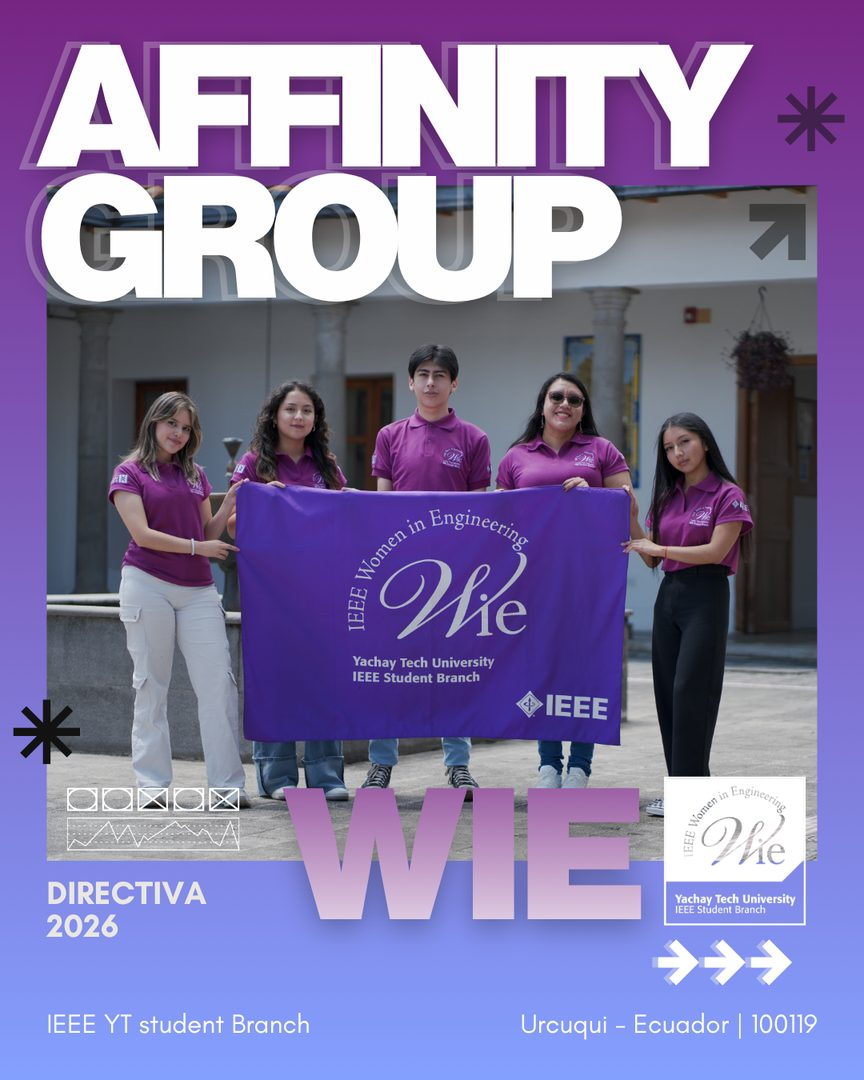
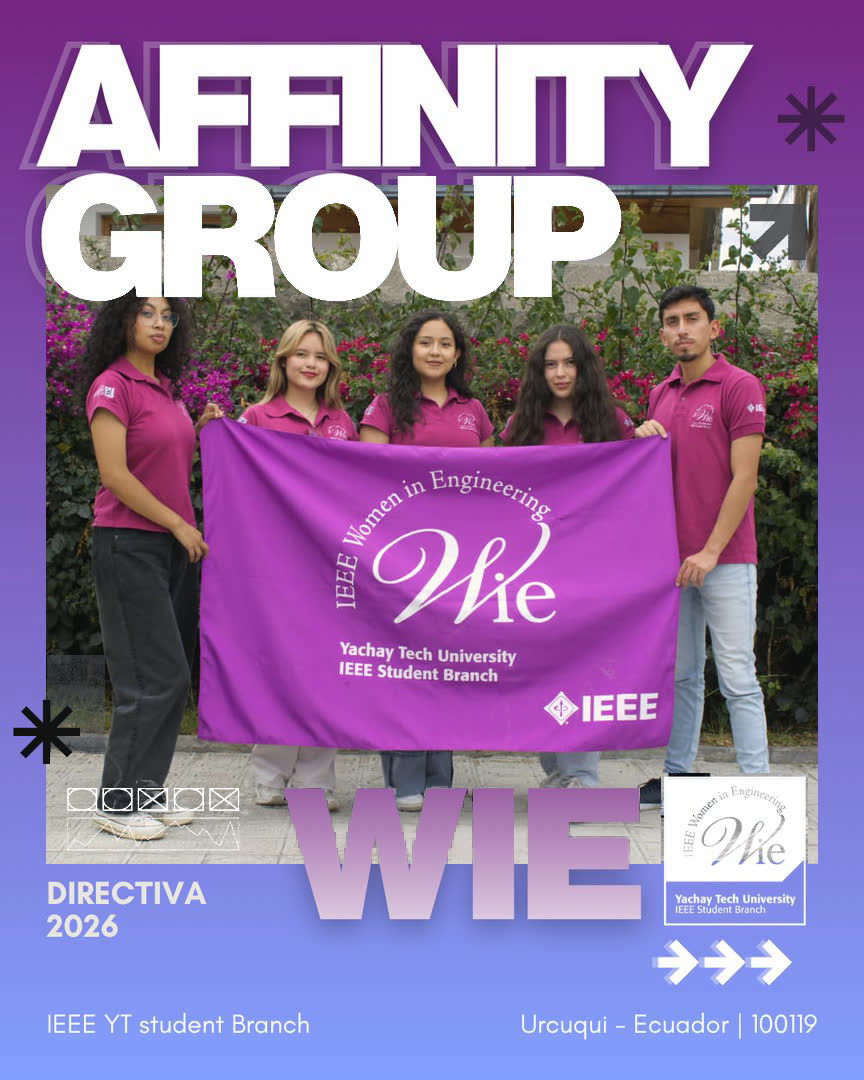
El Archivo seguia con la directiva anterior de WIE
En adbe8c9 escribi que la portada del Archivo NO se tocaba: las quince piezas
del mosaico son carteles disenados de 864x1080 y lo unico que mando WIE es una
grupal en crudo, apaisada, de 1040x795. Recortada a 4:5 se queda con 636 de
los 1040 pixeles: parte por la mitad a la de la izquierda y corta al de la
derecha. Andres pidio igualmente que se cambiara, y tenia razon: el Archivo
estaba enseñando a gente que ya no es la directiva.

La salida no era recortar la foto sino entrar en el cartel. Dentro del diseno
la foto ocupa un rectangulo exacto -(46,185), 772x679, proporcion 1.137- y la
grupal nueva, a 1.308, entra ahi recortando ancho, no alto: 904 de 1040, con
la gente entre el 12 % y el 88 %. Nadie se queda fuera. El cartel es el mismo
de siempre; lo unico que cambia son los pixeles de dentro del marco.

Lo caro fue devolver lo que el diseno dibuja ENCIMA de la foto. Seis piezas, y
cada una pedia un metodo distinto:

- GROUP. Blanco macizo. La banda es 66 % blanco puro y solo 0.8 % cae entre
  208 y 239, asi que un umbral la separa limpia. El primer intento uso fondo
  local y salio la palabra HUECA: dentro de un trazo grueso la ventana entera
  es blanca, asi que el fondo estimado tambien, y el alfa se anulaba.

- El ornamento -las cajas y la onda-. Justo lo contrario: trazos de un pixel
  que un umbral se come. Aqui si sirve el fondo local, el percentil 15 de una
  ventana de 13x13, y de ahi sale el alfa. El marco de la onda solo aparece
  con este metodo.
[…]

diff --git a/capitulos/computer-society.html b/capitulos/computer-society.html
@@ -22,13 +22,13 @@
 <meta property="og:image" content="../assets/img/rama-general-2026.jpg">
 <meta property="og:locale" content="es_EC">
 <meta property="og:site_name" content="IEEE Yachay Tech University Student Branch">
-<link rel="stylesheet" href="../css/style.css?v=124">
+<link rel="stylesheet" href="../css/style.css?v=125">
 
 <!-- Estos dos van en la cabecera a propósito, y bloquean el pintado a
      propósito: el velo tiene que estar puesto en el primer fotograma o se
      ve la página por debajo. Ver js/velo-entrada.js. -->
-<script src="../js/capitulos-data.js?v=124"></script>
-<script src="../js/velo-entrada.js?v=124"></script>
+<script src="../js/capitulos-data.js?v=125"></script>
+<script src="../js/velo-entrada.js?v=125"></script>
 </head>
 
 <body class="cappage" data-cap="computer-society">
@@ -110,9 +110,9 @@
 <!-- orden: primero los datos, luego el renderizador que construye la página,
      y al final los del sitio — main.js necesita el DOM ya montado para medir
      la barra, y sus render* de la portada no hacen nada aquí. -->
-<script src="../js/capitulo.js?v=124"></script>
-<script src="../js/ascii.js?v=124"></script>
-<script src="../js/main.js?v=124"></script>
-<script src="../js/transicion.js?v=124"></script>
+<script src="../js/capitulo.js?v=125"></script>
+<script src="../js/ascii.js?v=125"></script>
+<script src="../js/main.js?v=125"></script>
+<script src="../js/transicion.js?v=125"></script>
 </body>
 </html>

diff --git a/capitulos/photonics.html b/capitulos/photonics.html
@@ -22,13 +22,13 @@
 <meta property="og:image" content="../assets/img/rama-general-2026.jpg">
 <meta property="og:locale" content="es_EC">
 <meta property="og:site_name" content="IEEE Yachay Tech University Student Branch">
-<link rel="stylesheet" href="../css/style.css?v=124">
+<link rel="stylesheet" href="../css/style.css?v=125">
 
 <!-- Estos dos van en la cabecera a propósito, y bloquean el pintado a
      propósito: el velo tiene que estar puesto en el primer fotograma o se
      ve la página por debajo. Ver js/velo-entrada.js. -->
-<script src="../js/capitulos-data.js?v=124"></script>
-<script src="../js/velo-entrada.js?v=124"></script>
+<script src="../js/capitulos-data.js?v=125"></script>
+<script src="../js/velo-entrada.js?v=125"></script>
 </head>
 
 <body class="cappage" data-cap="photonics">
@@ -110,9 +110,9 @@
 <!-- orden: primero los datos, luego el renderizador que construye la página,
      y al final los del sitio — main.js necesita el DOM ya montado para medir
      la barra, y sus render* de la portada no hacen nada aquí. -->
-<script src="../js/capitulo.js?v=124"></script>
-<script src="../js/ascii.js?v=124"></script>
-<script src="../js/main.js?v=124"></script>
-<script src="../js/transicion.js?v=124"></script>
+<script src="../js/capitulo.js?v=125"></script>
+<script src="../js/ascii.js?v=125"></script>
+<script src="../js/main.js?v=125"></script>
+<script src="../js/transicion.js?v=125"></script>
 </body>
 </html>

diff --git a/capitulos/comsoc.html b/capitulos/comsoc.html
@@ -22,13 +22,13 @@
 <meta property="og:image" content="../assets/img/rama-general-2026.jpg">
 <meta property="og:locale" content="es_EC">
 <meta property="og:site_name" content="IEEE Yachay Tech University Student Branch">
-<link rel="stylesheet" href="../css/style.css?v=124">
+<link rel="stylesheet" href="../css/style.css?v=125">
 
 <!-- Estos dos van en la cabecera a propósito, y bloquean el pintado a
      propósito: el velo tiene que estar puesto en el primer fotograma o se
      ve la página por debajo. Ver js/velo-entrada.js. -->
-<script src="../js/capitulos-data.js?v=124"></script>
-<script src="../js/velo-entrada.js?v=124"></script>
+<script src="../js/capitulos-data.js?v=125"></script>
+<script src="../js/velo-entrada.js?v=125"></script>
 </head>
 
 <body class="cappage" data-cap="comsoc">
@@ -110,9 +110,9 @@
 <!-- orden: primero los datos, luego el renderizador que construye la página,
      y al final los del sitio — main.js necesita el DOM ya montado para medir
      la barra, y sus render* de la portada no hacen nada aquí. -->
-<script src="../js/capitulo.js?v=124"></script>
-<script src="../js/ascii.js?v=124"></script>
-<script src="../js/main.js?v=124"></script>
-<script src="../js/transicion.js?v=124"></script>
+<script src="../js/capitulo.js?v=125"></script>
+<script src="../js/ascii.js?v=125"></script>
+<script src="../js/main.js?v=125"></script>
+<script src="../js/transicion.js?v=125"></script>
 </body>
 </html>

diff --git a/capitulos/sight.html b/capitulos/sight.html
@@ -22,13 +22,13 @@
 <meta property="og:image" content="../assets/img/rama-general-2026.jpg">
 <meta property="og:locale" content="es_EC">
 <meta property="og:site_name" content="IEEE Yachay Tech University Student Branch">
-<link rel="stylesheet" href="../css/style.css?v=124">
+<link rel="stylesheet" href="../css/style.css?v=125">
 
 <!-- Estos dos van en la cabecera a propósito, y bloquean el pintado a
      propósito: el velo tiene que estar puesto en el primer fotograma o se
      ve la página por debajo. Ver js/velo-entrada.js. -->
-<script src="../js/capitulos-data.js?v=124"></script>
-<script src="../js/velo-entrada.js?v=124"></script>
+<script src="../js/capitulos-data.js?v=125"></script>
+<script src="../js/velo-entrada.js?v=125"></script>
 </head>
 
 <body class="cappage" data-cap="sight">
@@ -110,9 +110,9 @@
 <!-- orden: primero los datos, luego el renderizador que construye la página,
      y al final los del sitio — main.js necesita el DOM ya montado para medir
      la barra, y sus render* de la portada no hacen nada aquí. -->
-<script src="../js/capitulo.js?v=124"></script>
-<script src="../js/ascii.js?v=124"></script>
-<script src="../js/main.js?v=124"></script>
-<script src="../js/transicion.js?v=124"></script>
+<script src="../js/capitulo.js?v=125"></script>
+<script src="../js/ascii.js?v=125"></script>
+<script src="../js/main.js?v=125"></script>
+<script src="../js/transicion.js?v=125"></script>
 </body>
 </html>

diff --git a/capitulos/embs.html b/capitulos/embs.html
@@ -22,13 +22,13 @@
 <meta property="og:image" content="../assets/img/rama-general-2026.jpg">
 <meta property="og:locale" content="es_EC">
 <meta property="og:site_name" content="IEEE Yachay Tech University Student Branch">
-<link rel="stylesheet" href="../css/style.css?v=124">
+<link rel="stylesheet" href="../css/style.css?v=125">
 
 <!-- Estos dos van en la cabecera a propósito, y bloquean el pintado a
      propósito: el velo tiene que estar puesto en el primer fotograma o se
      ve la página por debajo. Ver js/velo-entrada.js. -->
-<script src="../js/capitulos-data.js?v=124"></script>
-<script src="../js/velo-entrada.js?v=124"></script>
+<script src="../js/capitulos-data.js?v=125"></script>
+<script src="../js/velo-entrada.js?v=125"></script>
 </head>
 
 <body class="cappage" data-cap="embs">
@@ -110,9 +110,9 @@
 <!-- orden: primero los datos, luego el renderizador que construye la página,
      y al final los del sitio — main.js necesita el DOM ya montado para medir
      la barra, y sus render* de la portada no hacen nada aquí. -->
-<script src="../js/capitulo.js?v=124"></script>
-<script src="../js/ascii.js?v=124"></script>
-<script src="../js/main.js?v=124"></script>
-<script src="../js/transicion.js?v=124"></script>
+<script src="../js/capitulo.js?v=125"></script>
+<script src="../js/ascii.js?v=125"></script>
+<script src="../js/main.js?v=125"></script>
+<script src="../js/transicion.js?v=125"></script>
 </body>
 </html>

diff --git a/capitulos/grss.html b/capitulos/grss.html
@@ -22,13 +22,13 @@
 <meta property="og:image" content="../assets/img/rama-general-2026.jpg">
 <meta property="og:locale" content="es_EC">
 <meta property="og:site_name" content="IEEE Yachay Tech University Student Branch">
-<link rel="stylesheet" href="../css/style.css?v=124">
+<link rel="stylesheet" href="../css/style.css?v=125">
 
 <!-- Estos dos van en la cabecera a propósito, y bloquean el pintado a
      propósito: el velo tiene que estar puesto en el primer fotograma o se
      ve la página por debajo. Ver js/velo-entrada.js. -->
-<script src="../js/capitulos-data.js?v=124"></script>
-<script src="../js/velo-entrada.js?v=124"></script>
+<script src="../js/capitulos-data.js?v=125"></script>
+<script src="../js/velo-entrada.js?v=125"></script>
 </head>
 
 <body class="cappage" data-cap="grss">
@@ -110,9 +110,9 @@
 <!-- orden: primero los datos, luego el renderizador que construye la página,
      y al final los del sitio — main.js necesita el DOM ya montado para medir
      la barra, y sus render* de la portada no hacen nada aquí. -->
-<script src="../js/capitulo.js?v=124"></script>
-<script src="../js/ascii.js?v=124"></script>
-<script src="../js/main.js?v=124"></script>
-<script src="../js/transicion.js?v=124"></script>
+<script src="../js/capitulo.js?v=125"></script>
+<script src="../js/ascii.js?v=125"></script>
+<script src="../js/main.js?v=125"></script>
+<script src="../js/transicion.js?v=125"></script>
 </body>
 </html>

diff --git a/capitulos/mtts.html b/capitulos/mtts.html
@@ -22,13 +22,13 @@
 <meta property="og:image" content="../assets/img/rama-general-2026.jpg">
 <meta property="og:locale" content="es_EC">
 <meta property="og:site_name" content="IEEE Yachay Tech University Student Branch">
-<link rel="stylesheet" href="../css/style.css?v=124">
+<link rel="stylesheet" href="../css/style.css?v=125">
 
 <!-- Estos dos van en la cabecera a propósito, y bloquean el pintado a
      propósito: el velo tiene que estar puesto en el primer fotograma o se
      ve la página por debajo. Ver js/velo-entrada.js. -->
-<script src="../js/capitulos-data.js?v=124"></script>
-<script src="../js/velo-entrada.js?v=124"></script>
+<script src="../js/capitulos-data.js?v=125"></script>
+<script src="../js/velo-entrada.js?v=125"></script>
 </head>
 
 <body class="cappage" data-cap="mtts">
@@ -110,9 +110,9 @@
 <!-- orden: primero los datos, luego el renderizador que construye la página,
      y al final los del sitio — main.js necesita el DOM ya montado para medir
      la barra, y sus render* de la portada no hacen nada aquí. -->
-<script src="../js/capitulo.js?v=124"></script>
-<script src="../js/ascii.js?v=124"></script>
-<script src="../js/main.js?v=124"></script>
-<script src="../js/transicion.js?v=124"></script>
+<script src="../js/capitulo.js?v=125"></script>
+<script src="../js/ascii.js?v=125"></script>
+<script src="../js/main.js?v=125"></script>
+<script src="../js/transicion.js?v=125"></script>
 </body>
 </html>

diff --git a/capitulos/npss.html b/capitulos/npss.html
@@ -22,13 +22,13 @@
 <meta property="og:image" content="../assets/img/rama-general-2026.jpg">
 <meta property="og:locale" content="es_EC">
 <meta property="og:site_name" content="IEEE Yachay Tech University Student Branch">
-<link rel="stylesheet" href="../css/style.css?v=124">
+<link rel="stylesheet" href="../css/style.css?v=125">
 
 <!-- Estos dos van en la cabecera a propósito, y bloquean el pintado a
      propósito: el velo tiene que estar puesto en el primer fotograma o se
      ve la página por debajo. Ver js/velo-entrada.js. -->
-<script src="../js/capitulos-data.js?v=124"></script>
-<script src="../js/velo-entrada.js?v=124"></script>
+<script src="../js/capitulos-data.js?v=125"></script>
+<script src="../js/velo-entrada.js?v=125"></script>
 </head>
 
 <body class="cappage" data-cap="npss">
@@ -110,9 +110,9 @@
 <!-- orden: primero los datos, luego el renderizador que construye la página,
      y al final los del sitio — main.js necesita el DOM ya montado para medir
      la barra, y sus render* de la portada no hacen nada aquí. -->
-<script src="../js/capitulo.js?v=124"></script>
-<script src="../js/ascii.js?v=124"></script>
-<script src="../js/main.js?v=124"></script>
-<script src="../js/transicion.js?v=124"></script>
+<script src="../js/capitulo.js?v=125"></script>
+<script src="../js/ascii.js?v=125"></script>
+<script src="../js/main.js?v=125"></script>
+<script src="../js/transicion.js?v=125"></script>
 </body>
 </html>

diff --git a/capitulos/cas.html b/capitulos/cas.html
@@ -22,13 +22,13 @@
 <meta property="og:image" content="../assets/img/rama-general-2026.jpg">
 <meta property="og:locale" content="es_EC">
 <meta property="og:site_name" content="IEEE Yachay Tech University Student Branch">
-<link rel="stylesheet" href="../css/style.css?v=124">
+<link rel="stylesheet" href="../css/style.css?v=125">
 
 <!-- Estos dos van en la cabecera a propósito, y bloquean el pintado a
      propósito: el velo tiene que estar puesto en el primer fotograma o se
      ve la página por debajo. Ver js/velo-entrada.js. -->
-<script src="../js/capitulos-data.js?v=124"></script>
-<script src="../js/velo-entrada.js?v=124"></script>
+<script src="../js/capitulos-data.js?v=125"></script>
+<script src="../js/velo-entrada.js?v=125"></script>
 </head>
 
 <body class="cappage" data-cap="cas">
@@ -110,9 +110,9 @@
 <!-- orden: primero los datos, luego el renderizador que construye la página,
      y al final los del sitio — main.js necesita el DOM ya montado para medir
      la barra, y sus render* de la portada no hacen nada aquí. -->
-<script src="../js/capitulo.js?v=124"></script>
-<script src="../js/ascii.js?v=124"></script>
-<script src="../js/main.js?v=124"></script>
-<script src="../js/transicion.js?v=124"></script>
+<script src="../js/capitulo.js?v=125"></script>
+<script src="../js/ascii.js?v=125"></script>
+<script src="../js/main.js?v=125"></script>
+<script src="../js/transicion.js?v=125"></script>
 </body>
 </html>

diff --git a/capitulos/cis.html b/capitulos/cis.html
@@ -22,13 +22,13 @@
 <meta property="og:image" content="../assets/img/rama-general-2026.jpg">
 <meta property="og:locale" content="es_EC">
 <meta property="og:site_name" content="IEEE Yachay Tech University Student Branch">
-<link rel="stylesheet" href="../css/style.css?v=124">
+<link rel="stylesheet" href="../css/style.css?v=125">
 
 <!-- Estos dos van en la cabecera a propósito, y bloquean el pintado a
      propósito: el velo tiene que estar puesto en el primer fotograma o se
      ve la página por debajo. Ver js/velo-entrada.js. -->
-<script src="../js/capitulos-data.js?v=124"></script>
-<script src="../js/velo-entrada.js?v=124"></script>
+<script src="../js/capitulos-data.js?v=125"></script>
+<script src="../js/velo-entrada.js?v=125"></script>
 </head>
 
 <body class="cappage" data-cap="cis">
@@ -110,9 +110,9 @@
 <!-- orden: primero los datos, luego el renderizador que construye la página,
      y al final los del sitio — main.js necesita el DOM ya montado para medir
      la barra, y sus render* de la portada no hacen nada aquí. -->
-<script src="../js/capitulo.js?v=124"></script>
-<script src="../js/ascii.js?v=124"></script>
-<script src="../js/main.js?v=124"></script>
-<script src="../js/transicion.js?v=124"></script>
+<script src="../js/capitulo.js?v=125"></script>
+<script src="../js/ascii.js?v=125"></script>
+<script src="../js/main.js?v=125"></script>
+<script src="../js/transicion.js?v=125"></script>
 </body>
 </html>

diff --git a/capitulos/eps.html b/capitulos/eps.html
@@ -22,13 +22,13 @@
 <meta property="og:image" content="../assets/img/rama-general-2026.jpg">
 <meta property="og:locale" content="es_EC">
 <meta property="og:site_name" content="IEEE Yachay Tech University Student Branch">
-<link rel="stylesheet" href="../css/style.css?v=124">
+<link rel="stylesheet" href="../css/style.css?v=125">
 
 <!-- Estos dos van en la cabecera a propósito, y bloquean el pintado a
      propósito: el velo tiene que estar puesto en el primer fotograma o se
      ve la página por debajo. Ver js/velo-entrada.js. -->
-<script src="../js/capitulos-data.js?v=124"></script>
-<script src="../js/velo-entrada.js?v=124"></script>
+<script src="../js/capitulos-data.js?v=125"></script>
+<script src="../js/velo-entrada.js?v=125"></script>
 </head>
 
 <body class="cappage" data-cap="eps">
@@ -110,9 +110,9 @@
 <!-- orden: primero los datos, luego el renderizador que construye la página,
      y al final los del sitio — main.js necesita el DOM ya montado para medir
      la barra, y sus render* de la portada no hacen nada aquí. -->
-<script src="../js/capitulo.js?v=124"></script>
-<script src="../js/ascii.js?v=124"></script>
-<script src="../js/main.js?v=124"></script>
-<script src="../js/transicion.js?v=124"></script>
+<script src="../js/capitulo.js?v=125"></script>
+<script src="../js/ascii.js?v=125"></script>
+<script src="../js/main.js?v=125"></script>
+<script src="../js/transicion.js?v=125"></script>
 </body>
 </html>

diff --git a/capitulos/ras.html b/capitulos/ras.html
@@ -22,13 +22,13 @@
 <meta property="og:image" content="../assets/img/rama-general-2026.jpg">
 <meta property="og:locale" content="es_EC">
 <meta property="og:site_name" content="IEEE Yachay Tech University Student Branch">
-<link rel="stylesheet" href="../css/style.css?v=124">
+<link rel="stylesheet" href="../css/style.css?v=125">
 
 <!-- Estos dos van en la cabecera a propósito, y bloquean el pintado a
      propósito: el velo tiene que estar puesto en el primer fotograma o se
      ve la página por debajo. Ver js/velo-entrada.js. -->
-<script src="../js/capitulos-data.js?v=124"></script>
-<script src="../js/velo-entrada.js?v=124"></script>
+<script src="../js/capitulos-data.js?v=125"></script>
+<script src="../js/velo-entrada.js?v=125"></script>
 </head>
 
 <body class="cappage" data-cap="ras">
@@ -110,9 +110,9 @@
 <!-- orden: primero los datos, luego el renderizador que construye la página,
      y al final los del sitio — main.js necesita el DOM ya montado para medir
      la barra, y sus render* de la portada no hacen nada aquí. -->
-<script src="../js/capitulo.js?v=124"></script>
-<script src="../js/ascii.js?v=124"></script>
-<script src="../js/main.js?v=124"></script>
-<script src="../js/transicion.js?v=124"></script>
+<script src="../js/capitulo.js?v=125"></script>
+<script src="../js/ascii.js?v=125"></script>
+<script src="../js/main.js?v=125"></script>
+<script src="../js/transicion.js?v=125"></script>
 </body>
 </html>
